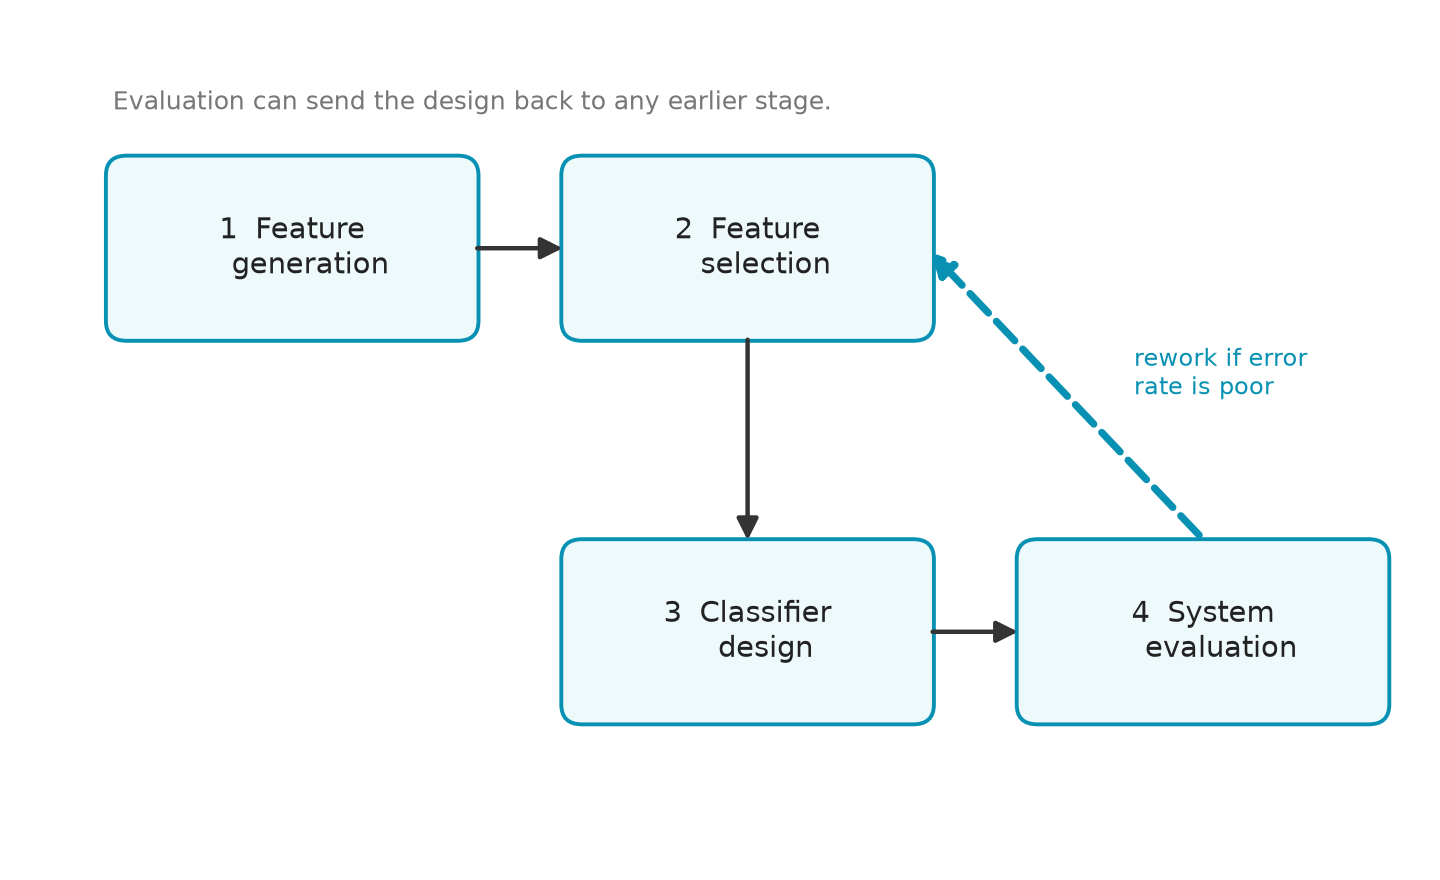
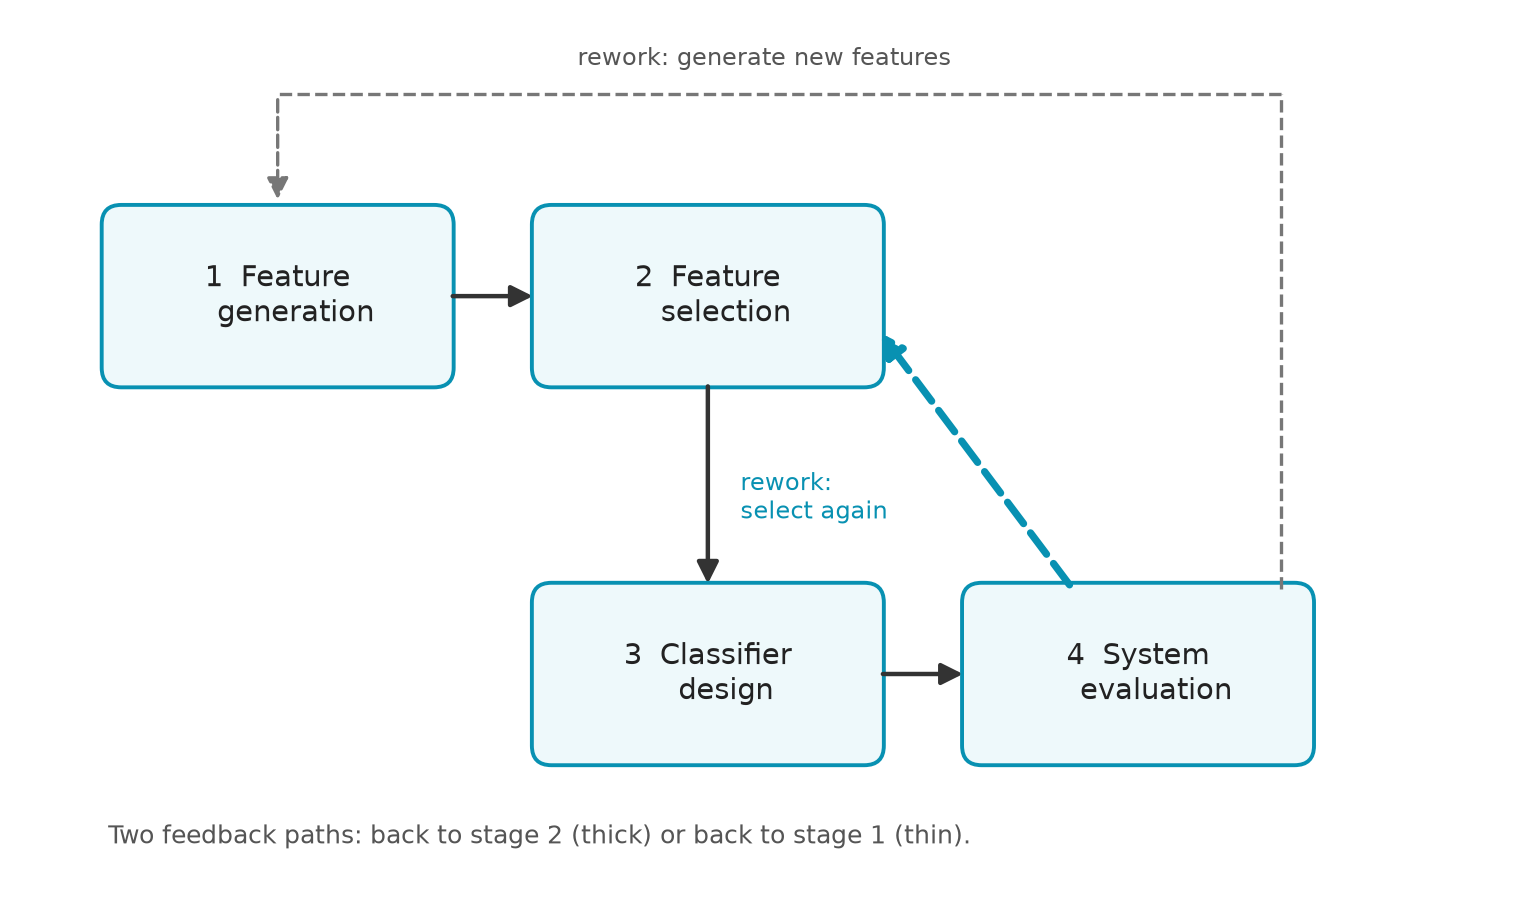
fix: 重畫 lec01-design-loop 為兩條回饋路徑並同步圖說;技能新增圖說一致性稽核

diff --git a/assets/figures/src/lec01-design-loop.py b/assets/figures/src/lec01-design-loop.py
@@ -1,13 +1,16 @@
-"""Figure code: lec01-design-loop. The four-stage design loop with a feedback arrow.
+"""Figure code: lec01-design-loop. The four-stage design loop with TWO feedback paths.
 
+Feedback paths (both start at stage 4, System evaluation):
+  - thick dashed teal arrow: back to stage 2, Feature selection
+  - thin dashed grey route: back to stage 1, Feature generation (routed above the boxes)
 Labels are English so the figure can be reused without font issues.
 """
 import matplotlib.pyplot as plt
 from matplotlib.patches import FancyArrowPatch, FancyBboxPatch
 
-fig, ax = plt.subplots(figsize=(7.2, 4.4))
-ax.set_xlim(0, 10)
-ax.set_ylim(0, 6.2)
+fig, ax = plt.subplots(figsize=(7.6, 4.6))
+ax.set_xlim(0, 11.2)
+ax.set_ylim(0, 6.6)
 ax.axis("off")
 
 boxes = {
@@ -25,9 +28,12 @@ for key, (x, y, label) in boxes.items():
     ax.text(x + W / 2, y + H / 2, label, ha="center", va="center", fontsize=10.5, color="#222222")
     centers[key] = (x + W / 2, y + H / 2)
 
+
 def arrow(p, q, **kw):
     ax.add_patch(FancyArrowPatch(p, q, arrowstyle="-|>", mutation_scale=16, **kw))
 
+
+# forward path (solid)
 arrow((centers["gen"][0] + W / 2, centers["gen"][1]), (centers["sel"][0] - W / 2, centers["sel"][1]),
       color="#333333", lw=1.6)
 arrow((centers["sel"][0], centers["sel"][1] - H / 2), (centers["des"][0], centers["des"][1] + H / 2),
@@ -35,10 +41,21 @@ arrow((centers["sel"][0], centers["sel"][1] - H / 2), (centers["des"][0], center
 arrow((centers["des"][0] + W / 2, centers["des"][1]), (centers["eva"][0] - W / 2, centers["eva"][1]),
       color="#333333", lw=1.6)
 
-# feedback: evaluation -> feature selection (thick dashed) and -> feature generation (thin dashed)
-arrow((8.5, 2.35), (6.5, 4.55), color="#0891b2", lw=2.6, linestyle="--")
-ax.text(8.0, 3.6, "rework if error\nrate is poor", fontsize=8.5, color="#0891b2", ha="left", va="center")
-ax.text(0.6, 5.6, "Evaluation can send the design back to any earlier stage.", fontsize=9, color="#777777", ha="left")
+# feedback 1 (thick dashed): evaluation -> feature selection
+arrow((8.0, 2.3), (6.5, 4.3), color="#0891b2", lw=2.6, linestyle="--")
+ax.text(5.45, 3.0, "rework:\nselect again", fontsize=8.5, color="#0891b2", ha="left", va="center")
+
+# feedback 2 (thin dashed): evaluation -> feature generation, routed above the boxes
+route_x_right, route_y_top, route_x_left = 9.6, 6.1, centers["gen"][0]
+ax.plot([9.6, 9.6], [2.3, route_y_top], color="#777777", lw=1.2, linestyle="--")
+ax.plot([9.6, route_x_left], [route_y_top, route_y_top], color="#777777", lw=1.2, linestyle="--")
+arrow((route_x_left, route_y_top), (route_x_left, centers["gen"][1] + H / 2 + 0.05),
+      color="#777777", lw=1.2, linestyle="--")
+ax.text(4.2, route_y_top + 0.18, "rework: generate new features", fontsize=8.5, color="#555555",
+        ha="left", va="bottom")
+
+ax.text(0.6, 0.35, "Two feedback paths: back to stage 2 (thick) or back to stage 1 (thin).",
+        fontsize=9, color="#555555", ha="left")
 
 fig.tight_layout()
 fig.savefig("assets/figures/lec01-design-loop.png", dpi=200)

diff --git a/.agents/skills/textbook-lecture-notes/SKILL.md b/.agents/skills/textbook-lecture-notes/SKILL.md
@@ -216,6 +216,8 @@ python -m playwright install chromium     # 只有需要公式圖片時才需要
 
 生成後必須**親自看圖**：標籤是否正確、關係是否對、有沒有多出來的錯誤物件。有錯就重生，或改用其他方式。
 
+**圖說先行**：先寫下圖說中的每一個主張（幾條箭頭、哪個方向、哪些標籤、幾群、哪個路徑），再把這些主張變成「必要元素清單」放進提示檔（MUST show）。生成後逐條對照，不符就重生，不得只改圖說遷就圖。
+
 ### 5.2 Matplotlib 圖
 
 每張圖寫一支腳本 `assets/figures/src/lecNN-<圖代碼>.py`，輸出 `assets/figures/lecNN-<圖代碼>.png`（dpi 200）。
@@ -245,6 +247,7 @@ fig.savefig("assets/figures/lecNN-<圖代碼>.png", dpi=200)
 - **圖例**：放在空白處，渲染後確認沒有壓到曲線。
 - **圖內文字**：只用英文與數學符號。中英說明用 Markdown 寫在圖的上下文中。
 - **數值一致**：圖中的數字必須與正文完全一致。
+- **排版衝突時改佈局，不刪元素**：箭頭或標籤擋到時，調整路徑、座標、尺寸或標籤位置。若必須刪除語意元素（例如某條回饋路徑），同步修改圖說與正文，並重做第 7 節第 9 項的稽核。
 
 **生成後必須用 `read` 工具打開 PNG 目視檢查**：軸標籤有沒有被切掉、圖例有沒有壓到內容、比例是否正確。沒看過就不算完成。
 
@@ -314,7 +317,14 @@ python .agents/skills/textbook-lecture-notes/scripts/render_formula.py --batch f
 5a. **補充難度檢查**：確認每個 `[補充]` 內容的前提都在原文或已先解釋的範圍內；若用到原文沒有的進階概念，改寫或移除。
 6. **術語一致性**：同一個術語在全講義使用同一譯法，並與術語表相符。
 7. **建置網站**：`python3 scripts/build_docs.py && mkdocs build`，不得有 ERROR，也不得有新的 WARNING。
-8. **不要 push**：先給使用者看摘要，確認後才提交。
+8. **推送**：課程 Repo 的變更直接 push 到 `main`，不需逐次確認（老師已授權）。範本的變更仍需先確認。
+9. **圖說與圖形一致性稽核**（每張圖都要做，重新生成後也要重做）：
+   - 把圖說的每個主張列成清單（例如「兩條回饋路徑」「回到特徵生成」「實線為正常順序」）。
+   - 逐條對照圖檔，確認元素存在、數量正確、方向正確、標籤位置正確。
+   - 數量詞（一條、兩條、任何、所有、每一個）必須對應圖上相同數量的元素。若圖說寫「任何較早的階段」，圖上就要有通往每一個較早階段的路徑，或改寫圖說。
+   - 有任何一條不符，先修圖，再修圖說。
+   - 稽核結果記入 `COURSE_STATE.md` 或給老師的摘要。
+   - 案例：`lec01-design-loop` 為了避免虛線穿過方塊，刪除了回到「特徵生成」的細虛線，但圖說仍寫「任何較早的階段」，圖與圖說不符。
 
 驗證用的腳本是一次性的，不要提交進 Repo（除非是 `assets/figures/src/` 中的圖表腳本）。
 

diff --git a/COURSE_STATE.md b/COURSE_STATE.md
@@ -37,6 +37,7 @@
 
 (最新的在最上面。格式:`YYYY-MM-DD — 決定或異動內容`)
 
+- 2026-10-09 — 修正 `lec01-design-loop`:圖上只剩一條回饋路徑,但圖說與正文寫「任何較早的階段」。原因:為避免虛線穿過方塊,刪除了回到「特徵生成」的細虛線,卻沒有重新對照圖說。已重畫兩條回饋路徑(粗虛線回特徵選擇、細虛線繞過上方回特徵生成),圖說同步更新。講義技能新增「圖說先行」、「排版衝突時改佈局、不刪元素」與第 7 節第 9 項「圖說與圖形一致性稽核」。稽核結果:圖說三項主張(四階段順序、兩條回饋路徑、細虛線不穿過方塊)皆與圖檔相符。
 - 2026-10-09 — 圖片改用文字代碼編號(不用數字序號,增刪圖片時不必重新編號):`lec01-feature-plane`、`lec01-learning-settings`、`lec01-design-loop`,檔名、腳本與圖說使用同一代碼。每張圖加上中英圖說。講義技能 §5.4 已更新此規則。
 - 2026-10-09 — 老師指示:之後課程 Repo 的變更直接 push 到 `main`,不需逐次確認。範本(`ndhuccc/course-template`)的變更仍需先確認。
 - 2026-10-09 — 修正網站公式:課程網站的 MathJax 不支援 `\boldsymbol`,會顯示紅色的 `\boldsymbol` 文字。`lectures/lec01.md` 的 4 處改為 `\mathbf`;講義技能 §4.4 新增此規則。

diff --git a/lectures/lec01.md b/lectures/lec01.md
@@ -147,9 +147,9 @@ Designing a classification system usually passes through four stages: **feature 
 
 ![設計迴圈（Design loop）](../assets/figures/lec01-design-loop.png)
 
-**圖說 `lec01-design-loop`**：分類系統設計的四個階段依序排列。系統評估的結果不理想時，可以回頭修正前面的任何一個階段（粗虛線為主要的回饋路徑）。
+**圖說 `lec01-design-loop`**：分類系統設計的四個階段依序排列（實線箭頭）。系統評估的結果不理想時，有兩條回饋路徑：粗虛線回到「特徵選擇」，細虛線繞過圖的上方回到「特徵生成」。
 
-**Caption `lec01-design-loop`**: the four stages in order. If the evaluation result is poor, the design can return to any earlier stage (the thick dashed arrow is the main feedback path).
+**Caption `lec01-design-loop`**: the four stages in order (solid arrows). If the evaluation result is poor, there are two feedback paths: the thick dashed arrow returns to feature selection, and the thin dashed route goes over the top back to feature generation.
 
 **重要觀念：這不是一條單向流水線，而是一個迴圈。** 如果評估的結果不好，就要回頭修正前面的階段。有些方法會把「特徵選擇」與「分類器設計」當成同一個問題，一起求解。
 
